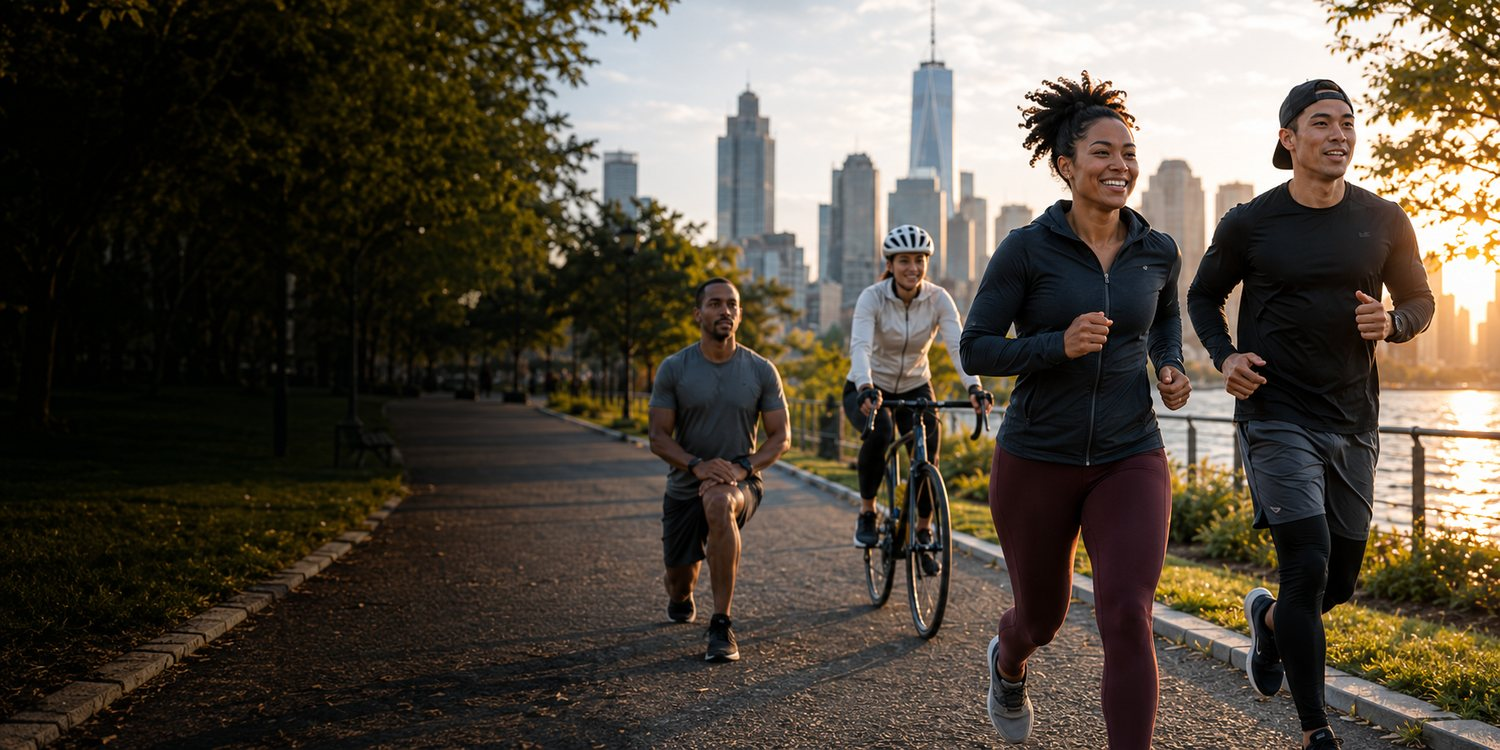
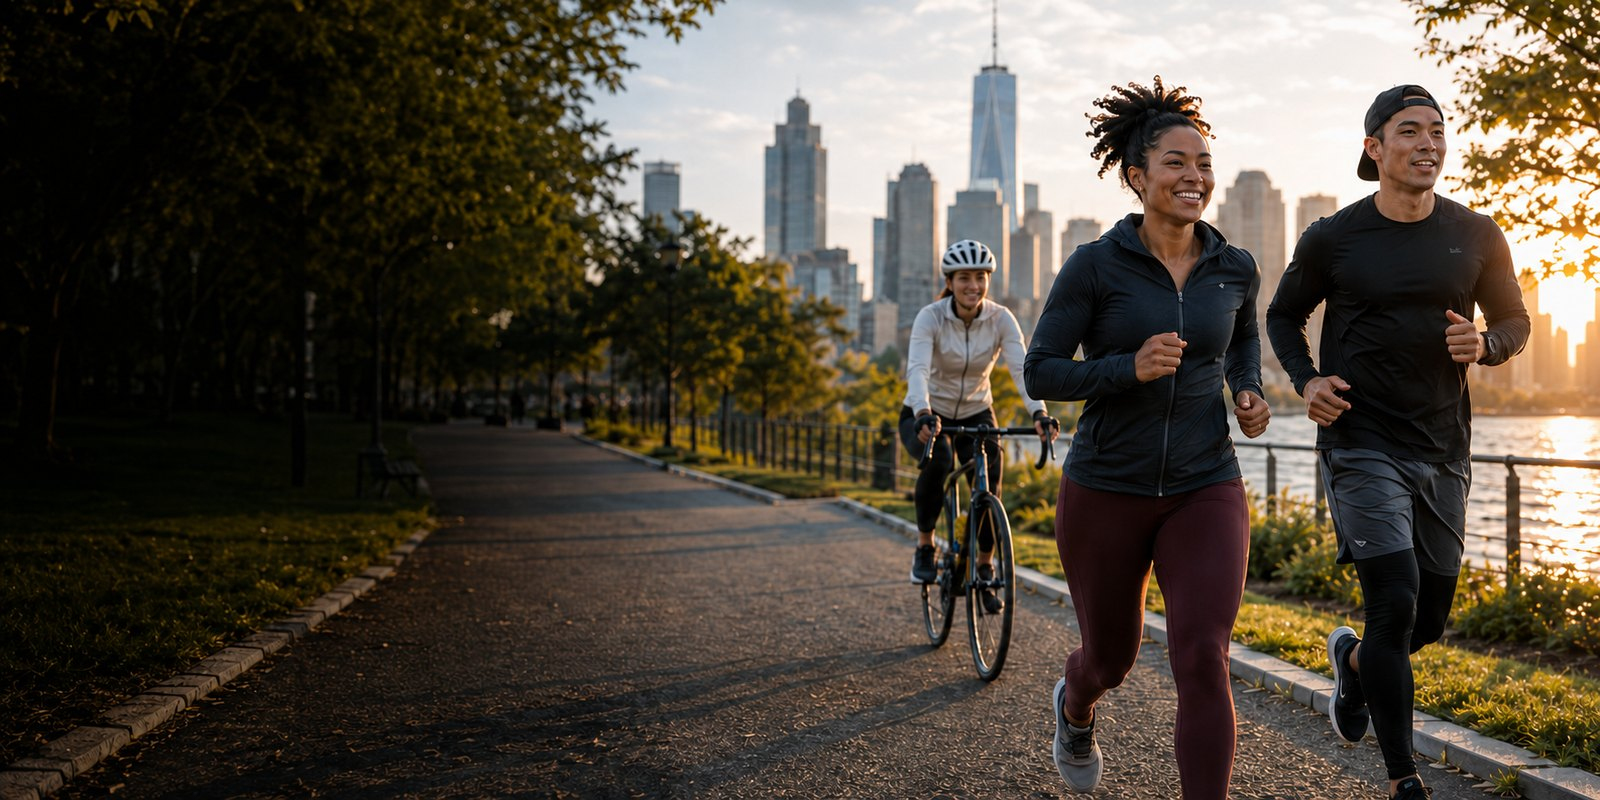
EA homepage: new hero (drop awkward lunge); add 4 lifestyle shots (climber/soccer/yoga/gym) into belong collage + Rebuild step for variety

diff --git a/index.html b/index.html
@@ -122,7 +122,7 @@
     </section>
 
     <section class="block belong" id="belong">
-      <div class="belong-images"><img src="assets/ea-runner.jpg" alt="Recreational runner"><img src="assets/ea-recovery.jpg" alt="Athlete recovering outdoors"><img src="assets/ea-return.jpg" alt="Athlete returning to activity"><img src="assets/ea-hero.jpg" alt="Athletes moving together"></div>
+      <div class="belong-images"><img src="assets/ea-climber.jpg" alt="Woman rock climbing outdoors"><img src="assets/ea-soccer.jpg" alt="Adults playing recreational soccer"><img src="assets/ea-yoga.jpg" alt="Woman doing yoga at home"><img src="assets/ea-runner.jpg" alt="Recreational runner"></div>
       <div class="belong-copy"><p class="eyebrow" style="color:var(--blue)">Who is an everyday athlete?</p><h2>If movement matters to you, you belong here<span>.</span></h2><p>You don’t need a contract, a coach or a podium to care about how your body performs. SportPharm is for people pursuing real goals in real life.</p><div class="mini-list"><span>Runners</span><span>Lifters</span><span>Cyclists</span><span>Hikers</span><span>Beginners</span><span>Former athletes</span><span>Weekend competitors</span><span>People returning after injury</span></div><p><strong>Professional or not, your goals are real. Your recovery should be taken seriously.</strong></p></div>
     </section>
 
@@ -140,7 +140,7 @@
       <div class="intro"><p class="eyebrow" style="color:var(--blue)">A clearer path forward</p><h2>Recovery Made Simple<span>.</span></h2><p>You don’t need seventeen products and a two-hour routine. You need the right next step for where you are now.</p></div>
       <div class="recovery-grid">
         <article class="recovery-card"><span class="step-number">1</span><img src="assets/ea-recovery.jpg" alt="Athlete recovering"><h3>Recover</h3><p>Manage soreness, support rest and understand what your body may need now.</p></article>
-        <article class="recovery-card"><span class="step-number">2</span><img src="assets/ea-return.jpg" alt="Athlete rebuilding strength"><h3>Rebuild</h3><p>Restore movement, strength and confidence gradually.</p></article>
+        <article class="recovery-card"><span class="step-number">2</span><img src="assets/ea-gym.jpg" alt="Athlete rebuilding strength in the gym"><h3>Rebuild</h3><p>Restore movement, strength and confidence gradually.</p></article>
         <article class="recovery-card"><span class="step-number">3</span><img src="assets/ea-runner.jpg" alt="Athlete returning to running"><h3>Return</h3><p>Create a realistic path back to training and the activities you enjoy.</p></article>
       </div>
     </section>